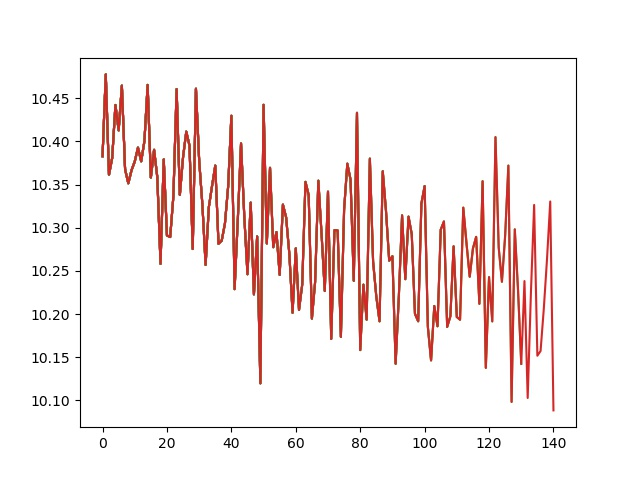
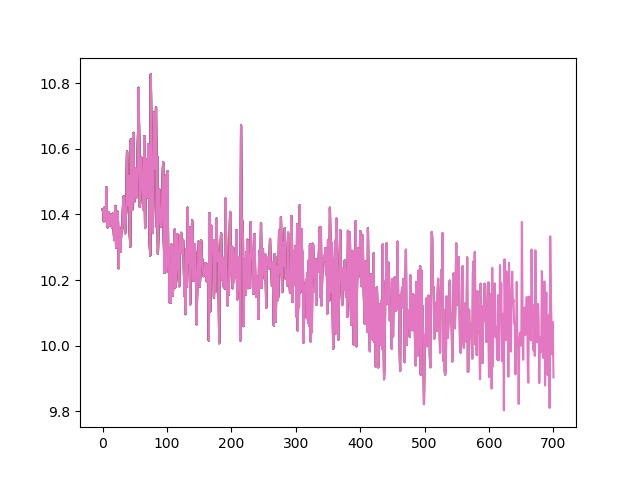
작은 수정

diff --git a/pretrain.py b/pretrain.py
@@ -1,3 +1,4 @@
+import codecs
 import numpy as np
 import matplotlib.pyplot as plt
 import torch
@@ -20,15 +21,23 @@ if __name__ == '__main__':
         loss = agent.pretrain(expert_chunk)
         loss_list.append(loss)
         if epoch % TEST_NUM == 0 and epoch > 0:
-            print('epoch: ', epoch)
+            print('epoch: ', epoch, end=' ')
             plt.plot(np.arange(len(loss_list)), np.array(loss_list))
             plt.savefig('pretrain_loss.jpg')
             agent.pretrain_save()
             s = env.reset()
             c = dist.sample().numpy().item()
+            print('code: ', c)
             d = False
             while not d:
                 a, log_prob = agent.get_action(s, c)
                 next_s, r, d, _ = env.step(a)
                 s = next_s
-            print(env.id_to_string())
+            if epoch == TEST_NUM:
+                f = codecs.open('pretrain_generated_sentence.txt', 'w', "utf-8")
+            else:
+                f = codecs.open('pretrain_generated_sentence.txt', 'a', 'utf-8')
+            sentence = env.id_to_string()
+            print(sentence)
+            f.write(sentence + '\n')
+            f.close()

diff --git a/Actor_Critic.py b/Actor_Critic.py
@@ -70,7 +70,7 @@ class Actor_Critic(Module):
         '''
         top_values, _ = x.topk(TOP_K)
         min_values = top_values[:,-1].unsqueeze(1)
-        x = torch.where(x < min_values, torch.full(x.size(), fill_value=-15.0), x)
+        x = torch.where(x < min_values, torch.full(x.size(), fill_value=-15.0, device=DEVICE), x)
         '''
         dist = Categorical(logits=x)
         if a is None:

diff --git a/config.py b/config.py
@@ -1,7 +1,7 @@
 #system info
 DEVICE = 'cuda:0'
 EXPERT_DIR = './expert_data_last'
-EXPERT_CHUNKS_NUM = 200
+EXPERT_CHUNKS_NUM = 400
 EXPERT_CHUNK_LENGTH = 512
 BAD_TOKENS = [102, 1029, 999, 1012, 1008, 2184]
 #<SEP> ? ! . * 10
